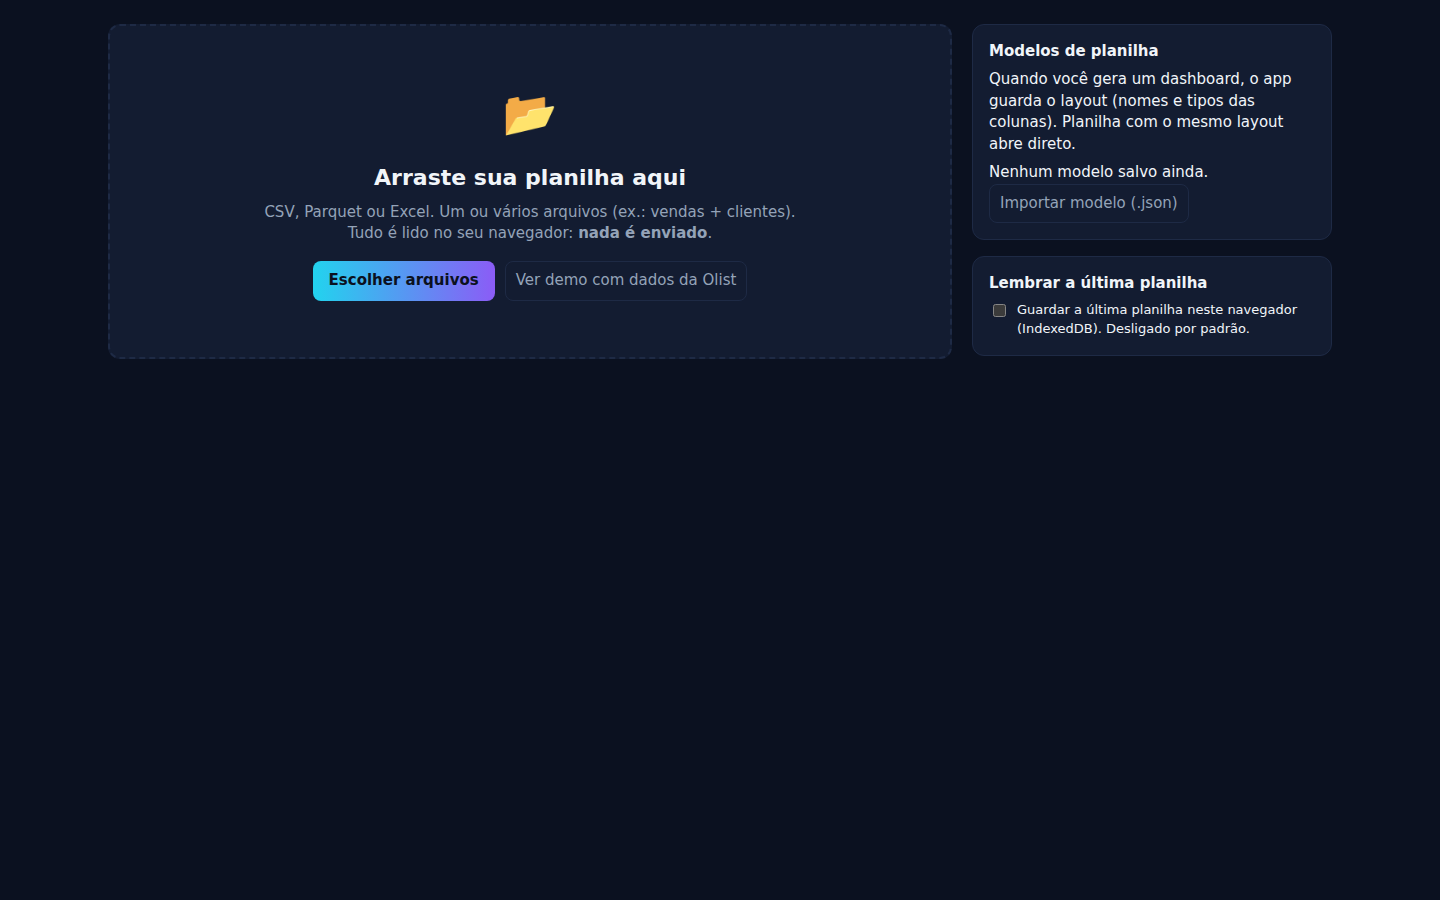
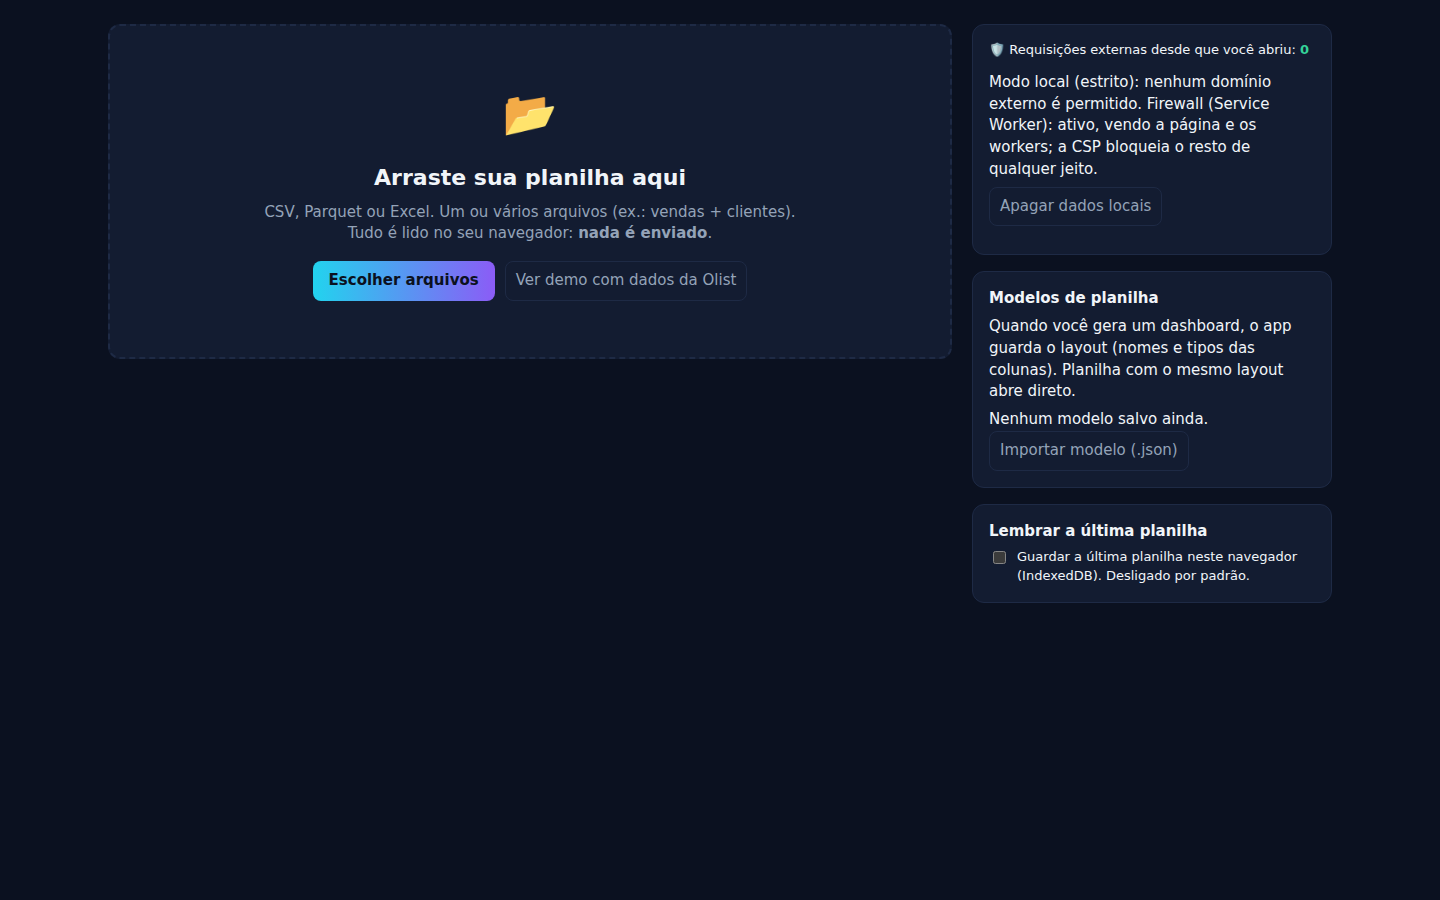
docs: PRIVACIDADE.md, decisões D48-D51, benchmark e prints da Fase 6
Claude-Session: https://claude.ai/code/session_016M3RKzUXaSBgNJ1yBuxHNZ

Changed region(s): [[0.6875, 0.28, 0.9062, 0.5289], [0.6875, 0.0311, 0.9062, 0.2489], [0.6875, 0.56, 0.9062, 0.6533]]

diff --git a/olist-modo-ia/docs/PRIVACIDADE.md b/olist-modo-ia/docs/PRIVACIDADE.md
@@ -1,0 +1,99 @@
+# Privacidade: as 4 perguntas, com evidência
+
+O post do LinkedIn que inspirou este projeto (dashboard de RH com "Modo IA" no navegador) recebeu 4 dúvidas nos
+comentários. Aqui estão as respostas deste app, cada uma com o teste automático ou o print que prova.
+
+Testes citados: `npm test` (Vitest) e `npx playwright test` (Chromium, build de produção). Prints em `docs/prints/`.
+
+---
+
+## a) O modelo pode inventar números ou explicações?
+
+**Números: não, por construção.** A IA nunca calcula nem escreve SQL (P1/P2):
+
+1. **Planejador:** a IA devolve só um "pedido de consulta" (QuerySpec) em JSON, preso a um JSON Schema com as
+   métricas e dimensões que existem. Depois, o Zod valida de novo e cada valor de filtro é conferido contra os
+   valores reais da base. JSON quebrado, métrica inventada ou valor que não existe viram **pergunta de volta**,
+   nunca consulta. Quem calcula é o DuckDB, com SQL gerado por um compilador determinístico.
+2. **Narrador:** a IA recebe só os FATOS (sem os valores) e escreve com marcadores `{{id}}`; o app troca pelos
+   números do DuckDB. O texto é **recusado** se tiver dígito fora de marcador, número por extenso, nome de mês ou
+   afirmação de causa fora do campo "Hipótese:". Recusado = fica o texto do template.
+3. **Validador numérico final:** todo número do texto precisa estar num fato.
+
+**Explicações:** "por que caiu?" mostra ONDE a variação aconteceu (decomposição por segmento), nunca a causa; a IA
+só pode sugerir causa marcada como "Hipótese:".
+
+| Evidência | Onde |
+|---|---|
+| Planejador errando (JSON quebrado, métrica inventada, valor inexistente) vira pergunta de volta, 0 SQL | `tests/unit/ia.test.ts`, `tests/e2e/ia-local.spec.ts` |
+| Narrador com número inventado, causa ou marcador falso é recusado | `tests/unit/ia.test.ts` ("narrador: validador"), print `docs/prints/fase4/5-narrador-rejeitado.png` |
+| Nenhum texto das 76 perguntas da suíte cita número fora dos fatos | `tests/unit/modo-rapido.test.ts` |
+| Totais batem com o Power BI no centavo; planilhas batem com o Python | `dados/validacao.md`, `tests/unit/universal.test.ts` |
+
+**Limite honesto:** a QUALIDADE do planejador com o modelo real (ele entende a pergunta certa?) ainda precisa ser
+medida no PC com GPU (D47). Se ele entender errado, a resposta é um número CERTO para a pergunta errada, e o bloco
+"Como calculei" mostra exatamente o que foi calculado.
+
+---
+
+## b) Existe tráfego de rede escondido (pesos em CDN, telemetria de libs)?
+
+**Não. Três barreiras, e um contador que mostra ao vivo:**
+
+1. **CSP no cabeçalho HTTP** (vale para a página E para os workers). Modo local: `connect-src 'self'` (nenhum
+   domínio externo). Modo demo: só `huggingface.co` e `*.hf.co`, os domínios dos pesos do modelo, **medidos**
+   (D46), e só usados se você clicar em "Ativar IA local".
+2. **Service Worker "firewall"** (`public/sw.js`): vê todas as requisições da página **e dos workers** (DuckDB e
+   IA), conta as externas e, no modo local, bloqueia. Ele assume a página ANTES de o DuckDB começar, então até o
+   worker da primeira visita nasce sob ele.
+3. **Nada de CDN em runtime:** DuckDB-WASM, extensão parquet, ECharts, SheetJS e a `model_lib` da IA são servidos
+   pelo próprio site, com SHA-256 fixado nos locks.
+
+**Contador:** "🛡 Requisições externas desde que você abriu: 0", no rodapé, no painel do Modo IA e na tela da
+planilha, com a lista de cada requisição (host, quem pediu, bloqueada ou não).
+
+| Evidência | Onde |
+|---|---|
+| Nenhuma violação de CSP e só o próprio site na rede (dashboard, Modo IA, IA com motor falso, planilhas) | `tests/e2e/seguranca.spec.ts`, `ia-local.spec.ts`, `universal.spec.ts` |
+| Firewall ativo desde a 1ª visita, contador 0, e requisições feitas **de dentro do worker do DuckDB** passando por ele | `tests/e2e/privacidade.spec.ts` (1º teste), print `docs/prints/fase6/1-selo-privacidade-contador-0.png` |
+| Com a CSP desligada de propósito, o Service Worker sozinho bloqueia `example.com/rastreador.js` e o contador marca "1 bloqueada" | `tests/e2e/privacidade.spec.ts` (2º teste), print `docs/prints/fase6/2-requisicao-bloqueada.png` |
+| Nenhuma lib de analytics/telemetria nas dependências (busca por Sentry, GA, Segment, PostHog, Mixpanel, Amplitude: 0) | varredura em `node_modules` (Fase 6) |
+| WebLLM só é baixado depois do clique em "Ativar IA local" | `tests/e2e/ia-local.spec.ts` ("sem clicar, nenhum byte do WebLLM") |
+
+---
+
+## c) O que fica salvo no navegador (cache dos pesos, IndexedDB)?
+
+Tudo fica **neste navegador, neste computador**. Nada vai para servidor nenhum.
+
+| Onde | O quê | Quando |
+|---|---|---|
+| Cache Storage (`olist-modo-ia-app-v1`) | código do app, DuckDB, dados da Olist, extensão parquet (~36 MB) | na 1ª visita (é o que faz funcionar offline) |
+| Cache Storage (do WebLLM) | pesos do modelo de IA (427 a 840 MB, conforme o modelo) | só se você ativar a IA |
+| localStorage (`olist-modo-ia:*`) | fixados, 👍/👎, textos da IA recusados pelo validador, "IA já ativada", modelos de planilha, preferência "lembrar planilha" | quando você usa cada função |
+| IndexedDB (`olist-modo-ia`) | bytes da última planilha | **só se você ligar** "Lembrar a última planilha" (desligado por padrão) |
+| OPFS | nada hoje | — |
+
+**Botão "Apagar dados locais"** (rodapé do dashboard e tela de entrada da planilha): apaga Cache Storage, IndexedDB, OPFS e
+localStorage/sessionStorage, e diz quanto apagou. O Service Worker continua registrado (a proteção não pode sumir).
+Evidência: `tests/e2e/privacidade.spec.ts` (4º teste), print `docs/prints/fase6/4-apagar-dados-locais.png`
+("Apagado: 35,6 MB em 1 cache · 1 banco IndexedDB · …").
+
+---
+
+## d) Quem controla o acesso aos dados, se a base vai junto com o HTML?
+
+- **Base da Olist (demo):** é pública (CC BY-NC-SA 4.0) e vai junto com o site de propósito. Quem abre o site pode
+  baixar o Parquet. Isso é aceitável porque os dados já são públicos. **Não publique uma base privada assim**: não
+  existe login nem controle de acesso num site estático.
+- **Sua planilha (Modo Universal):** é lida SÓ no seu navegador. Nada é enviado: não há servidor, e a rede está
+  travada (item b). Fechou a aba, ela some (a não ser que você ligue "Lembrar a última planilha").
+- **Dados pessoais na planilha:** CPF, e-mail, telefone e nome saem **mascarados já na tabela** ("***.***.***-12",
+  "a***@dominio", "Yasmin S."), ficam fora do catálogo da IA (ela nunca vê) e não podem virar métrica nem dimensão.
+- **Dados sensíveis (RH, saúde):** ligado por padrão quando a planilha tem dado pessoal ou salário: nenhum resultado
+  sobre **menos de 5 registros** aparece em gráfico, KPI ou resposta da IA, nem por filtro, e a tabela linha a linha
+  fica escondida. A regra está no compilador SQL, então vale para tudo.
+  Evidência: `tests/unit/universal.test.ts` ("dados sensíveis"), `tests/e2e/universal.spec.ts` (RH).
+
+**Limite honesto:** o app protege o que ELE mostra. Quem tem a planilha original já tem os dados; a proteção
+serve para compartilhar a tela ou o dashboard sem expor pessoas.

diff --git a/olist-modo-ia/CLAUDE.md b/olist-modo-ia/CLAUDE.md
@@ -34,7 +34,7 @@ Web app de portfólio do Harley (analista de dados júnior): dashboard da base O
 - CSVs da Olist em `./dados/` (manter fora do git). O `geolocation` não é usado e não foi copiado; o original está em `..\dashboard-vendas-olist\Dados\`.
 - Projeto Power BI de referência: `..\dashboard-vendas-olist\` (tema em `Imagens\tema_olist_dark.json`).
 - `gh` e `vercel` já estão autenticados. **Só crie repositório público ou faça deploy com autorização explícita** (Fase 8).
-- **Claude Code na nuvem:** o projeto fica na pasta `olist-modo-ia/` do repositório `harleylima12/Aurorapink` (branch `claude/gracious-carson-hgcwsu`). Os CSVs vêm de `python scripts/baixar_dados.py` (repositório oficial da Olist, commit fixo + SHA-256). Kaggle, Hugging Face e `extensions.duckdb.org` são bloqueados pela rede da nuvem; npm, PyPI e `raw.githubusercontent.com` funcionam. Sem GPU: a Fase 4 (WebGPU) precisa do PC.
+- **Claude Code na nuvem:** o projeto fica na pasta `olist-modo-ia/` do repositório `harleylima12/Aurorapink` (branch `claude/gracious-carson-hgcwsu`). Os CSVs vêm de `python scripts/baixar_dados.py` (repositório oficial da Olist, commit fixo + SHA-256). Kaggle continua bloqueado; npm, PyPI, `raw.githubusercontent.com`, Hugging Face, `extensions.duckdb.org` e `cdn.sheetjs.com` funcionam (os três últimos liberados pelo Harley em 26/09). Sem GPU: a Fase 4 (WebGPU) precisa do PC.
 
 ## Estado atual
 
@@ -43,7 +43,8 @@ Web app de portfólio do Harley (analista de dados júnior): dashboard da base O
 - **Fase 2 (base):** aprovada. Dashboard de 3 páginas, compilador spec→SQL, CSP.
 - **Fase 3 (Modo Rápido):** aprovada. Parser de tempo, Camada 0 (`src/router/layer0.ts`), insights e decomposição (`src/insights/`), seletor de gráfico, narrador por template + validador, painel "✨ Modo IA". Suíte `evals/perguntas.json` (76). Prints em `docs/prints/fase3/`.
 - **Fase 4 (IA local):** aprovada até onde deu sem GPU; **falta a validação no PC** (roteiro abaixo). Worker do WebLLM com import dinâmico (`src/ai/motorWebLLM.ts`, `engine.worker.ts`), escolha do modelo pela `prebuiltAppConfig` instalada (`modelos.ts`), planejador com JSON Schema (`planner.ts`, `prompts/planner.ts`), valores conferidos na base (`src/query/valueResolver.ts`), narrador com placeholders + validador (`narrator.ts`), motor falso (`motorFalso.ts`), `npm run baixar-modelo`. Decisões D28–D35. Testes: `npm test` (149), `npx playwright test` (22, com `PRINTS=1` grava prints), `python -m pytest tests/dados` (57). Prints em `docs/prints/fase4/`.
-- **Fase 5 (Modo Universal):** concluída na nuvem, aguardando o OK do Harley. Rota `/planilha`: leitura (`src/universal/leitor.ts`), limpeza, perfil das colunas (`perfil.ts`), semântica automática (`semanticaAuto.ts`), impressão digital e modelos (`impressao.ts`), vários arquivos (`relacoes.ts`, `montar.ts`), dashboard automático (`painelAuto.ts`) e telas em `src/ui/universal/`. Planilhas de teste em `evals/planilhas/` (`npm run gerar-planilhas-teste`). Decisões D36–D45. Testes: `npm test` (172), `npx playwright test` (24 + 3 pulados: prints com `PRINTS=1`, limite com `LIMITE=1`), `python -m pytest tests/dados` (57). **Excel pendente: SheetJS bloqueada na nuvem (D39), passo no roteiro abaixo.**
+- **Fase 5 (Modo Universal):** aprovada. Rota `/planilha`: leitura (`src/universal/leitor.ts`), limpeza, perfil das colunas (`perfil.ts`), semântica automática (`semanticaAuto.ts`), impressão digital e modelos (`impressao.ts`), vários arquivos (`relacoes.ts`, `montar.ts`), dashboard automático (`painelAuto.ts`) e telas em `src/ui/universal/`. Planilhas de teste em `evals/planilhas/` (`npm run gerar-planilhas-teste`). Decisões D36–D45. Testes: `npm test` (172), `npx playwright test` (24 + 3 pulados: prints com `PRINTS=1`, limite com `LIMITE=1`), `python -m pytest tests/dados` (57). Excel pela SheetJS 0.20.3 (tarball oficial em `vendor/`, D46).
+- **Fase 6 (Privacidade):** concluída na nuvem, aguardando o OK do Harley. Service Worker "firewall" (`public/sw.js`, `src/privacidade/firewall.ts`) com contador ao vivo e bloqueio no modo local, PWA offline, "Apagar dados locais" (`src/privacidade/apagar.ts`), tamanho mínimo de grupo para dados sensíveis (`min_group_size` no compilador), `docs/PRIVACIDADE.md`. Decisões D48–D51. Testes: `npm test` (174), `npx playwright test` (28 + 3 pulados: prints com `PRINTS=1`, limite com `LIMITE=1`), `python -m pytest tests/dados` (57). Prints em `docs/prints/fase6/`.
 - **Caminho de dados:** caminho FINAL ativo desde 26/09 (extensão parquet em `public/duckdb-extensions/`, SHA-256 no lock). O `.duckdb` provisório continua como plano B automático; decidir na Fase 6 se fica.
 - **Rede da nuvem:** o Harley liberou `cdn.sheetjs.com`, `extensions.duckdb.org`, `huggingface.co` e `*.hf.co`. O `curl` passa direto; o Node precisa de `NODE_USE_ENV_PROXY=1` nesta nuvem (no PC, não).
 - **Validar no PC do Harley (continua pendente):**
@@ -52,22 +53,8 @@ Web app de portfólio do Harley (analista de dados júnior): dashboard da base O
   3. `python scripts/preparar_dados.py` no Windows (caminho com acento e espaço).
   4. Conferir o frete total no card do Power BI (D16).
   5. IA na GPU (roteiro abaixo).
-- **Próximo passo:** validar a IA no PC (roteiro abaixo); depois, Fase 5 com o OK do Harley.
-
-## Roteiro: Excel no Modo Universal (Fase 5, SheetJS)
-
-A especificação manda instalar a SheetJS pelo tarball oficial (a do npm está desatualizada). No PC:
-
-1. Conferir a versão atual em https://cdn.sheetjs.com/ (a Fase 0 fixou 0.20.3) e baixar o tarball para `vendor/`:
-   `curl -o vendor/xlsx-0.20.3.tgz https://cdn.sheetjs.com/xlsx-0.20.3/xlsx-0.20.3.tgz`
-   (PowerShell: `Invoke-WebRequest -OutFile vendor/xlsx-0.20.3.tgz https://cdn.sheetjs.com/xlsx-0.20.3/xlsx-0.20.3.tgz`).
-2. Anotar o SHA-256 (`Get-FileHash vendor\xlsx-0.20.3.tgz` / `sha256sum`) no `docs/DECISOES.md` (D39) e instalar:
-   `npm install --save-exact file:vendor/xlsx-0.20.3.tgz`. Commitar `vendor/xlsx-0.20.3.tgz`, `package.json` e o lock.
-3. Conferir que a interface usada em `src/universal/excel.ts` (`read`, `utils.sheet_to_json` com `header: 1`,
-   `raw: false`, `defval`, `blankrows`, `dateNF`) bate com `node_modules/xlsx/types/index.d.ts`.
-4. `npm test` e `npx playwright test universal`: o teste "Excel sem SheetJS" vai falhar (agora a SheetJS existe):
-   trocar por um teste que solta `evals/planilhas/financeiro_titulo_total.xlsx` e confere aba "Dados", 60 linhas,
-   linha de total removida e receita total igual à do CSV (`esperado.json`).
+- **Próximo passo:** Fase 7 (avaliação e performance) com o OK do Harley; IA na GPU continua no roteiro abaixo.
+- **Decisão pendente do Harley:** manter o `.duckdb` provisório como plano B automático (recomendado: só é baixado se o caminho final falhar) ou tirar.
 
 ## Roteiro: validar a IA de verdade no PC (Fase 4)
 

diff --git a/olist-modo-ia/docs/DECISOES.md b/olist-modo-ia/docs/DECISOES.md
@@ -502,3 +502,40 @@ Formato: **contexto → decisão → alternativa descartada**. As decisões da F
   **só no PC, com GPU de verdade** (roteiro no CLAUDE.md).
 - **Ajuste que o teste mostrou:** o status dizia só "carregou em 19,6 s" e escondia o aquecimento; agora mostra
   os dois tempos.
+
+## Fase 6: Privacidade
+
+### D48. Service Worker "firewall" assume a página ANTES do DuckDB
+
+- **Contexto:** a especificação pede que o SW veja também as requisições dos workers ("confirme no Chrome que os
+  workers estão sob controle; se não estiverem, instrumente o fetch dentro deles"). Um worker só fica sob o SW se
+  nascer depois que o SW controla a página; na 1ª visita, o SW normal só assume depois do carregamento.
+- **Decisão:** `main.tsx` registra o SW e o motor de dados espera ele assumir (`clients.claim()`, no máximo 3 s)
+  antes de criar o worker do DuckDB. Conferido no Chromium: o SW vê requisições feitas **de dentro do worker**
+  (a extensão parquet é baixada pelo worker do DuckDB), então não foi preciso instrumentar o `fetch` dos workers.
+  O SW conta as externas, avisa as abas (contador ao vivo) e, no modo local, responde erro para qualquer uma.
+- **Custo medido:** a 1ª visita ficou mais lenta até o dashboard completo: 2,52–2,63 s (era 2,00 s). A primeira
+  pintura não mudou (0,23 s) e as visitas seguintes não esperam (1,96–2,13 s). Registrado no BENCHMARK.
+- **Descartado:** instrumentar o `fetch` dentro dos workers (o do DuckDB é de terceiros, e o SW já cobre) e
+  registrar o SW sem esperar (a 1ª visita ficaria fora do contador).
+- **Em `npm run dev` o SW fica desligado** (o HMR do Vite não combina com ele); o selo diz isso.
+
+### D49. Offline (PWA) sem duplicar os pesos do modelo
+
+- Manifesto + ícones (gerados do `icone.svg`). O SW guarda no Cache Storage o que o app usou: arquivos com hash
+  (`/assets/`) cache primeiro; o resto rede primeiro com cache se offline; toda rota usa o mesmo `index.html`.
+  `/models/` fica de fora: o WebLLM já guarda os pesos no cache dele (não guardar duas vezes 400-800 MB).
+- Evidência: `privacidade.spec.ts` recarrega a página offline e o faturamento continua R$ 13.494.400,74.
+
+### D50. Dados sensíveis: tamanho mínimo de grupo no compilador
+
+- **Decisão:** `dataset.min_group_size` na semântica; o compilador põe `HAVING COUNT(*) >= N` em toda agregação
+  (com ou sem dimensão). Vale para dashboard, Modo Rápido e IA ao mesmo tempo, e fecha o furo do filtro ("salário
+  médio de quem tem 3 horas extras" com 2 pessoas não volta nada). Ligado por padrão (N = 5) quando a planilha tem
+  dado pessoal ou coluna de salário/saúde; a tabela linha a linha fica escondida. A Olist não usa (dados públicos).
+- **Descartado:** esconder grupos só no gráfico (o KPI filtrado e a IA ainda mostrariam o número).
+
+### D51. "Apagar dados locais" diz o tamanho real
+
+- A estimativa do navegador (`navigator.storage.estimate()`) demora a atualizar e mostrava "0,0 MB liberados"
+  logo depois de apagar 35 MB. O relatório agora soma o `Content-Length` do que estava nos caches antes de apagar.

diff --git a/olist-modo-ia/README.md b/olist-modo-ia/README.md
@@ -16,8 +16,9 @@ Dashboard da base pública da Olist com **Modo IA 100% local** (WebLLM + DuckDB-
 | 2. Base | ✅ dashboard de 3 páginas, compilador spec→SQL, CSP; prints em [`docs/prints/fase2`](docs/prints/fase2) |
 | 3. Modo Rápido | ✅ perguntas em PT-BR respondidas sem IA em < 100 ms (p95); prints em [`docs/prints/fase3`](docs/prints/fase3) |
 | 4. IA local | ✅ na nuvem (sem GPU): planejador + narrador validados com motor falso; **modelo real a validar no PC**; prints em [`docs/prints/fase4`](docs/prints/fase4) |
-| 5. Modo Universal | ✅ arraste um CSV em `/planilha`: limpeza, perfil das colunas, tela "Entendi assim" e dashboard automático; Excel pendente (SheetJS); prints em [`docs/prints/fase5`](docs/prints/fase5) |
-| 6 a 8 | a fazer |
+| 5. Modo Universal | ✅ arraste um CSV em `/planilha`: limpeza, perfil das colunas, tela "Entendi assim" e dashboard automático; Excel via SheetJS; prints em [`docs/prints/fase5`](docs/prints/fase5) |
+| 6. Privacidade | ✅ firewall (Service Worker) com contador de requisições externas, offline, "Apagar dados locais", proteção de dados sensíveis; ver [`docs/PRIVACIDADE.md`](docs/PRIVACIDADE.md) |
+| 7 e 8 | a fazer |
 
 ## Fase 1: preparar os dados
 

diff --git a/olist-modo-ia/docs/BENCHMARK.md b/olist-modo-ia/docs/BENCHMARK.md
@@ -149,3 +149,19 @@ do clique em "Gerar dashboard" até o primeiro gráfico. Nuvem do Claude Code, C
 
 **Pacote:** o Modo Universal é carregado sob demanda (58,6 kB, 20,5 kB gzip); o pacote principal cresceu 2,6 kB
 em relação à Fase 4.
+
+## Fase 6: custo do firewall (Service Worker)
+
+`npx playwright test medicoes`, mesma máquina, caminho final (Parquet), mediana de 5 rodadas; com SW, duas execuções
+(a faixa mostra a variação entre elas):
+
+| Momento | 1ª visita (antes do SW) | 1ª visita (com SW) | Com cache (com SW) |
+|---|---:|---:|---:|
+| Primeira pintura | 0,23 s | 0,22–0,23 s | 0,19 s |
+| DuckDB pronto | 1,76 s | 2,23–2,34 s | 1,73–1,87 s |
+| KPIs e gráficos na tela | 2,00 s | **2,52–2,63 s** | 1,96–2,13 s |
+| Trocar filtro (mediana) | 174 ms | 182–201 ms | |
+
+- A 1ª visita paga ~0,5–0,6 s para o SW assumir antes do DuckDB (D48); a meta "primeira pintura < 2 s" continua
+  cumprida. Nas visitas seguintes o SW já está no controle e não há espera.
+- Cache do app guardado pelo SW para funcionar offline: 35,6 MB (medido pelo "Apagar dados locais").
